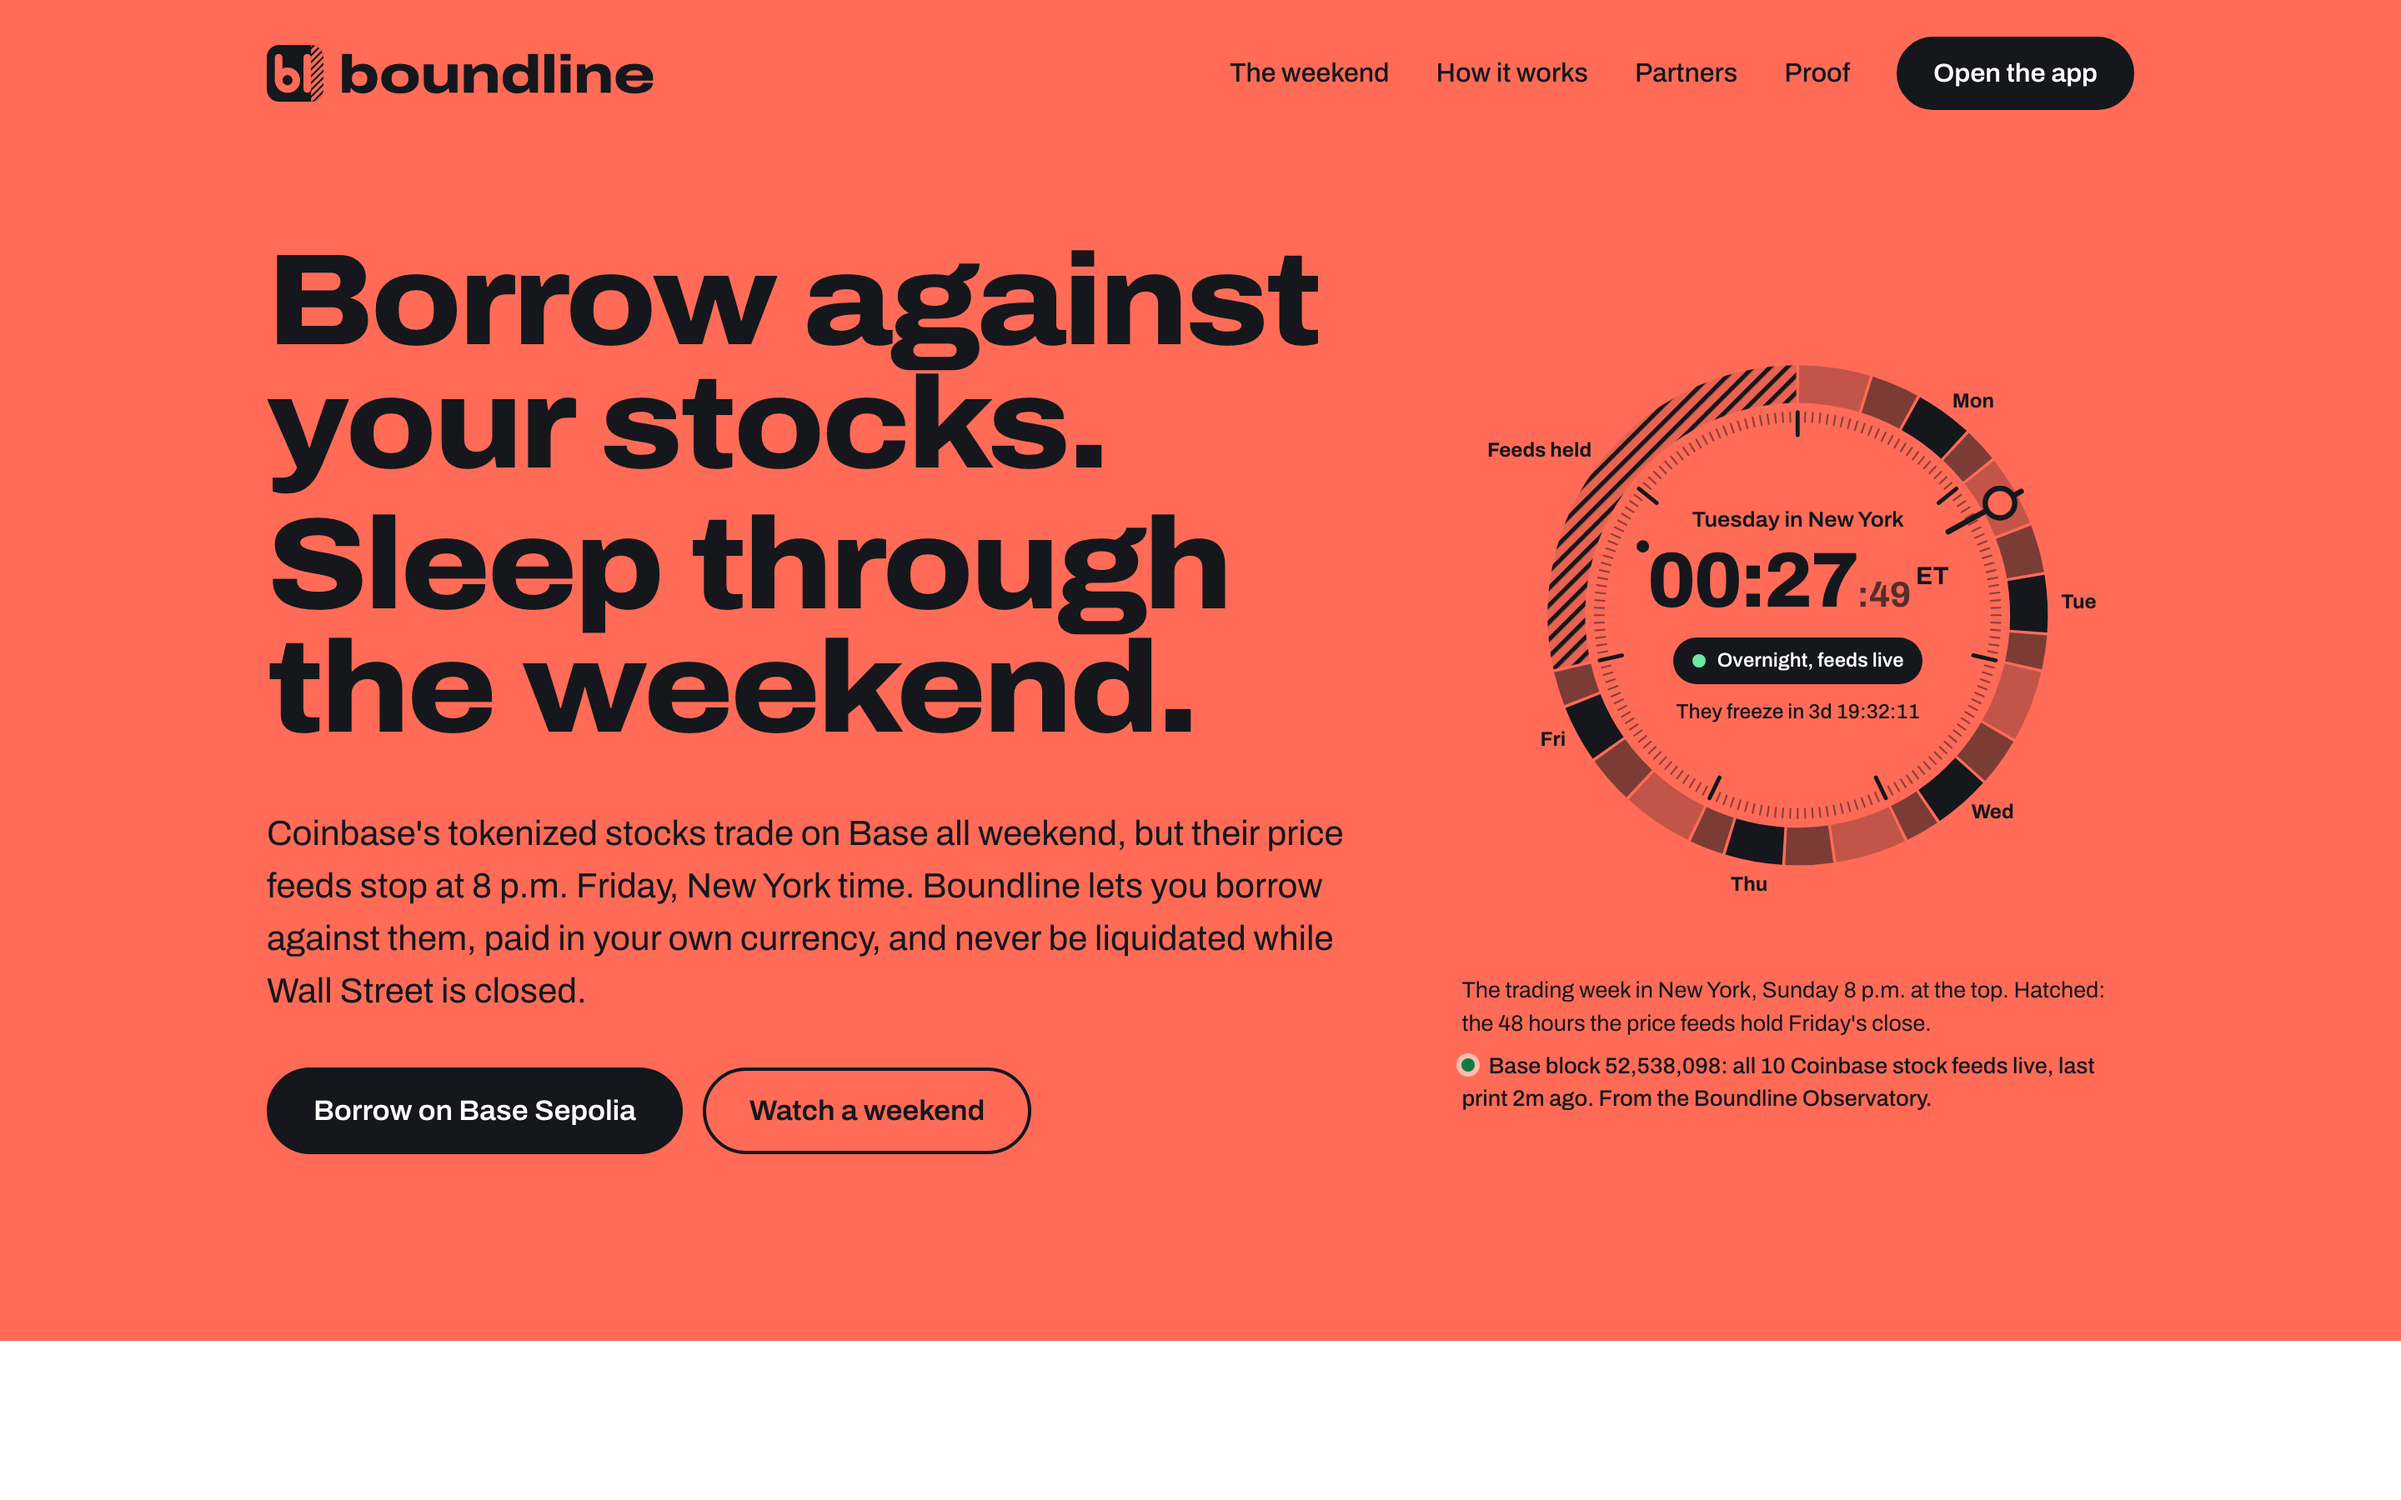
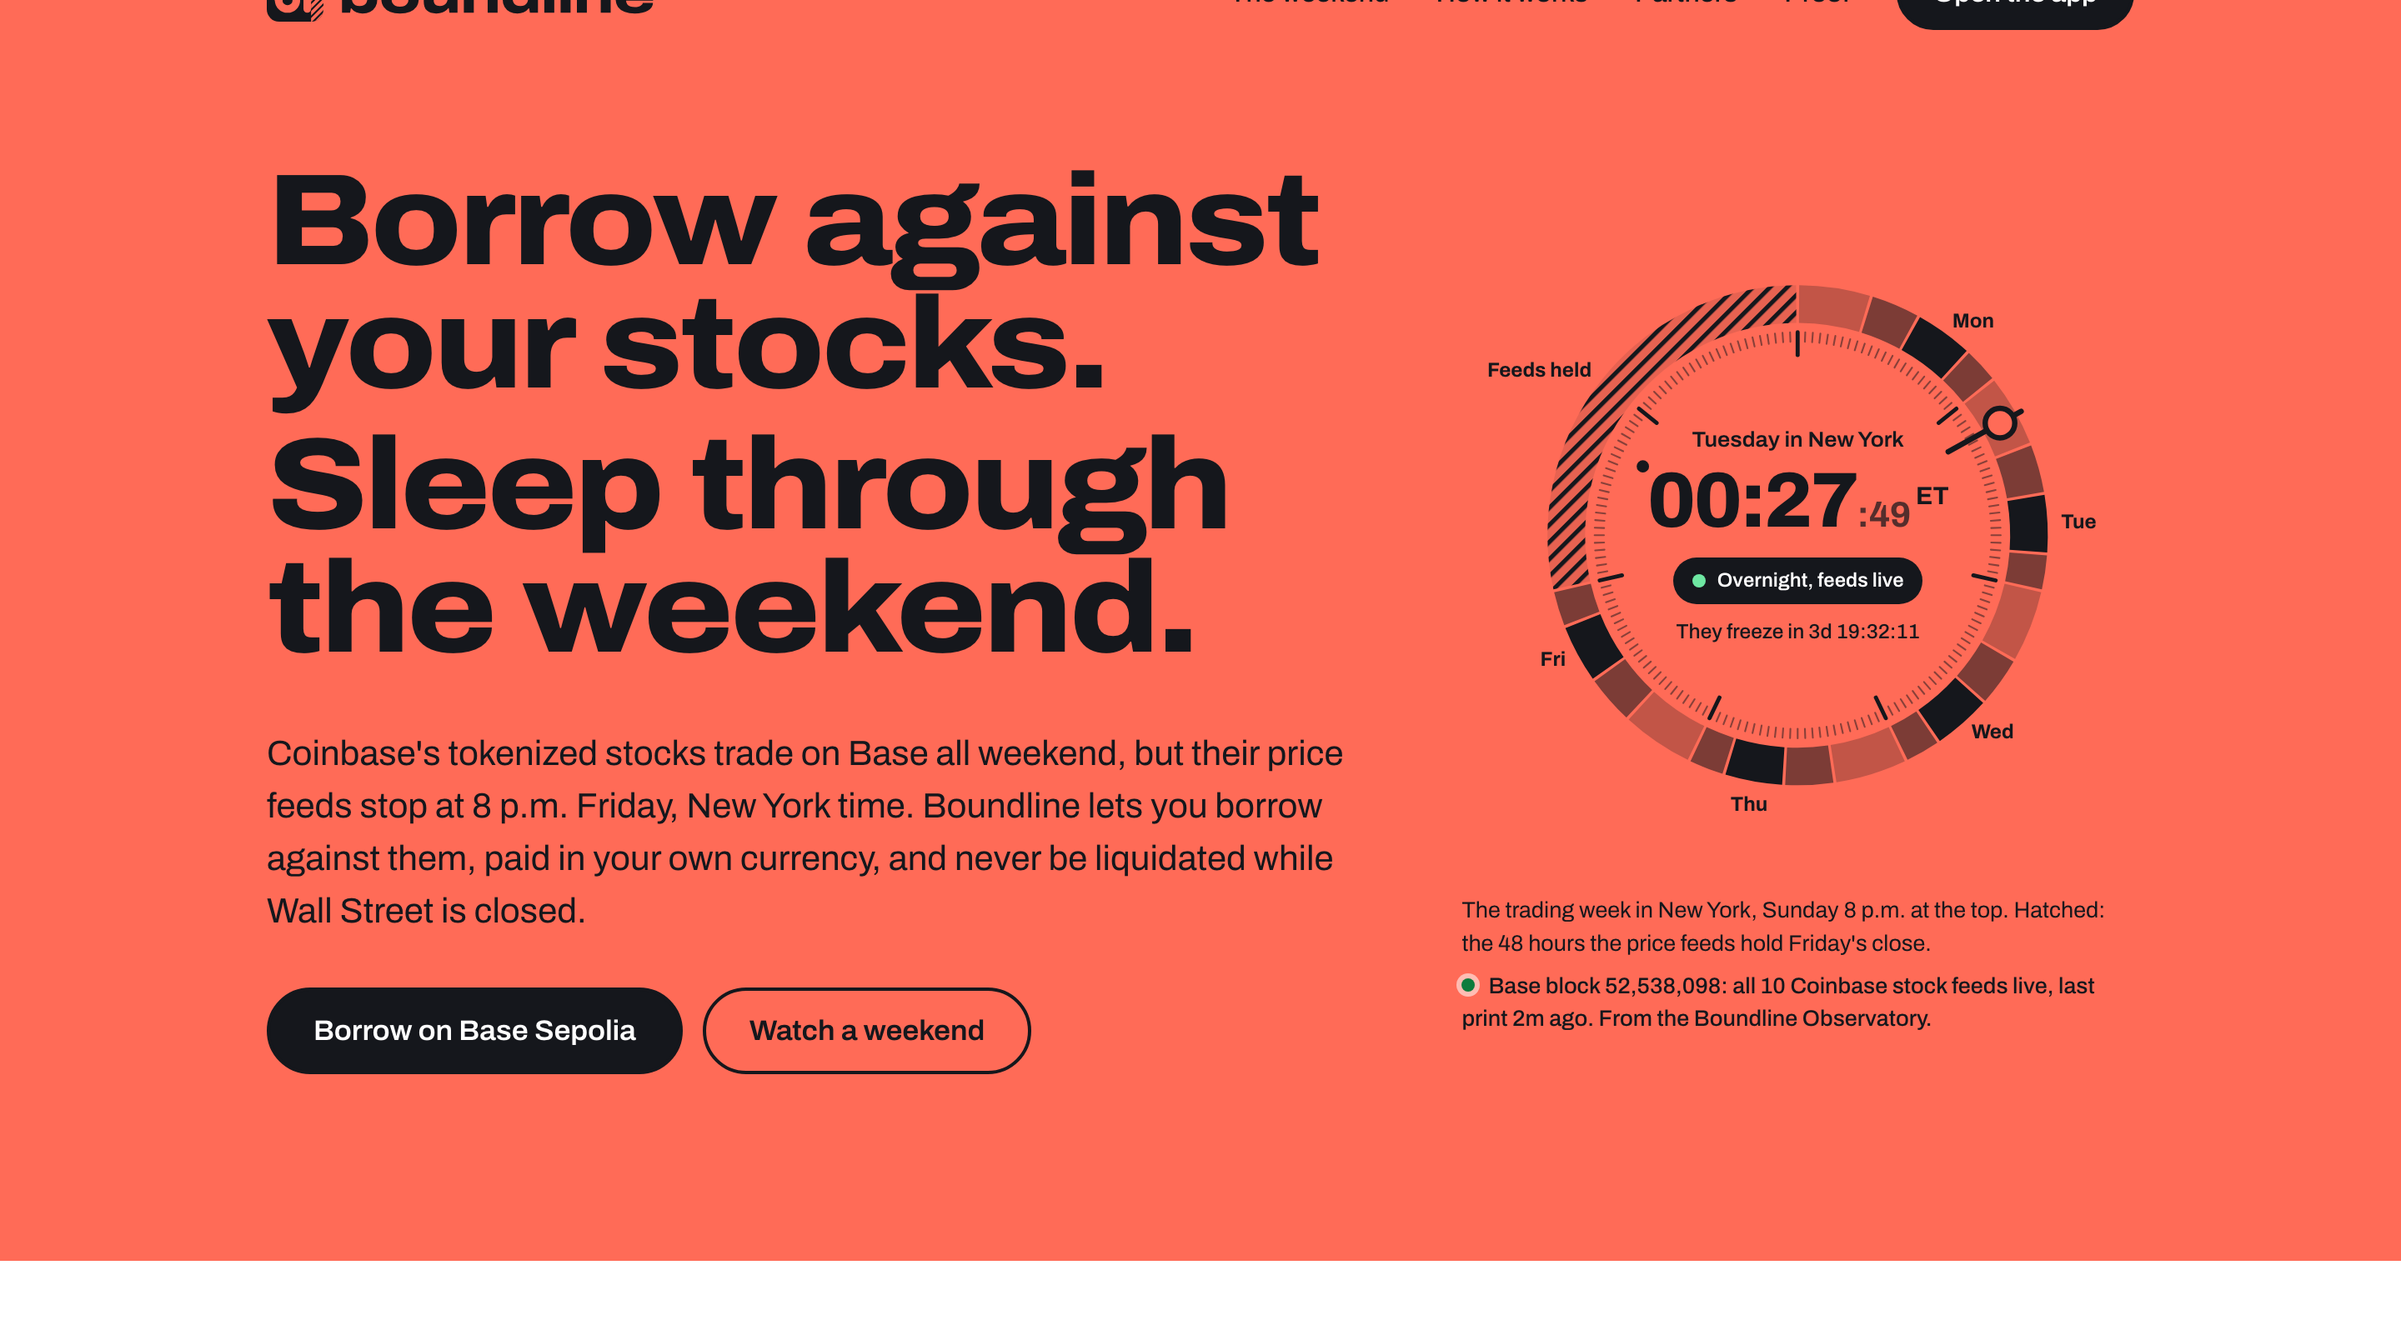
README: the landing screenshot ends at the hero; counts as of 13 Oct (119 commits)

diff --git a/docs/submission/SUBMISSION.md b/docs/submission/SUBMISSION.md
@@ -150,7 +150,7 @@ evidence index below):
   market is unseeded and no mainnet borrower has opted into protection yet, so nothing has been lent or protected on
   mainnet; the product runs on Base Sepolia.
 
-**Built in the window:** 118 commits from Sat 3 Oct to Tue 13 Oct 2026 in a new repository; 264 Foundry tests (unit,
+**Built in the window:** 119 commits from Sat 3 Oct to Tue 13 Oct 2026 in a new repository; 264 Foundry tests (unit,
 fuzz, invariant, differential) plus eight mainnet-fork suites that run against an archive RPC; 898 TypeScript tests;
 eight Cloudflare Workers live; the footprint deployed on Base mainnet.
 `TODO-HUMAN: if you commit again before submitting, bump the commit count (git rev-list --count HEAD).`

diff --git a/docs/submission/PUBLIC-REPO-CHECKLIST.md b/docs/submission/PUBLIC-REPO-CHECKLIST.md
@@ -72,7 +72,7 @@ that is fine for a build log.
 
 ## 3. Authorship (Colosseum checks who did the work)
 
-All 118 commits (Sat 3 to Tue 13 Oct 2026) are by `Farseen Shaikh <90364321+FarseenSh@users.noreply.github.com>`.
+All 119 commits (Sat 3 to Tue 13 Oct 2026) are by `Farseen Shaikh <90364321+FarseenSh@users.noreply.github.com>`.
 `TODO-HUMAN: if a second developer is on the roster, their work must be in this repository under their own GitHub
 identity before submission; otherwise the roster is Farseen alone.`
 
